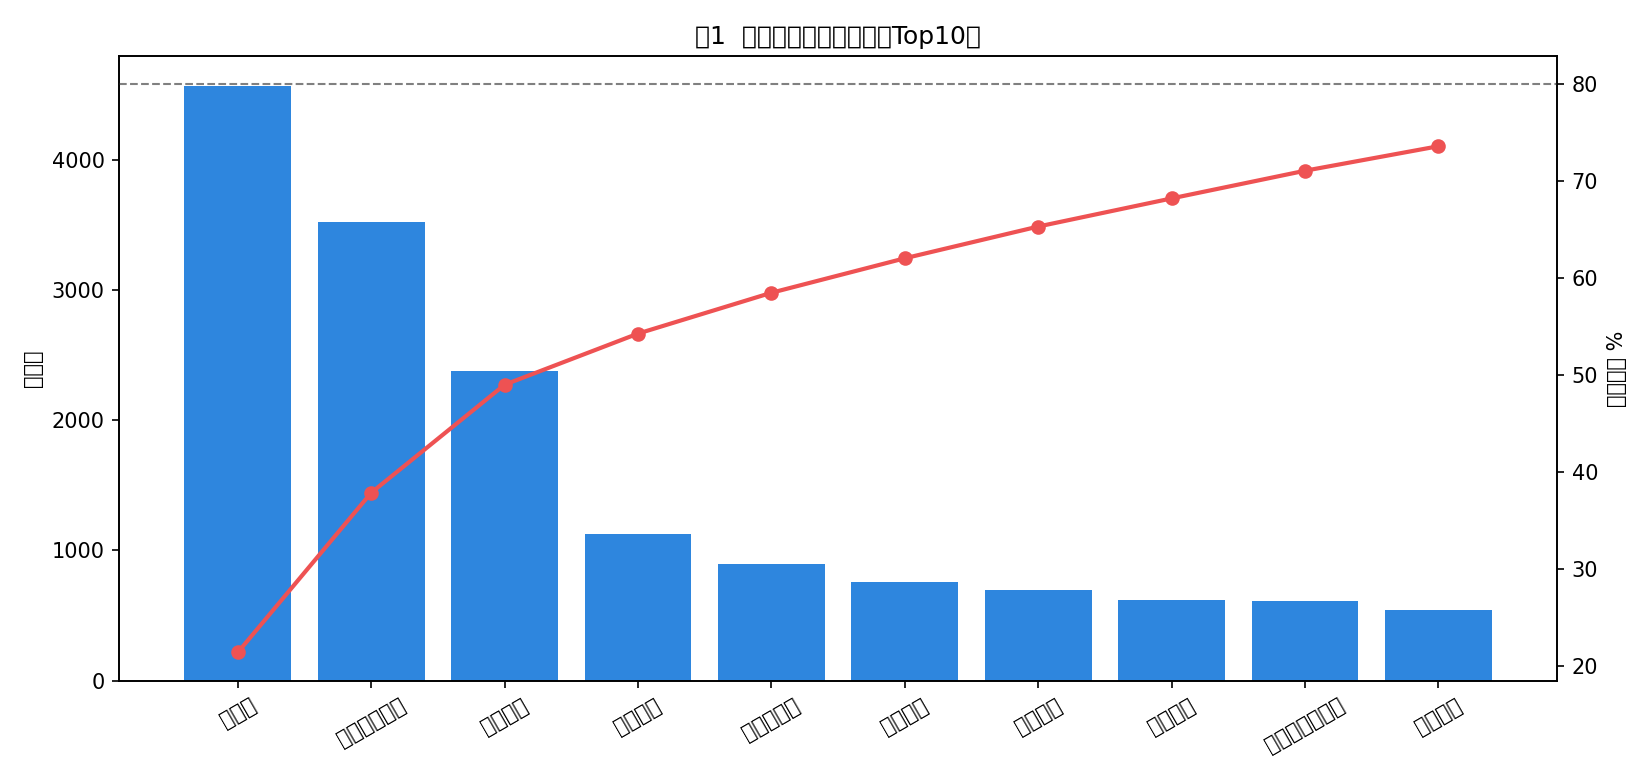
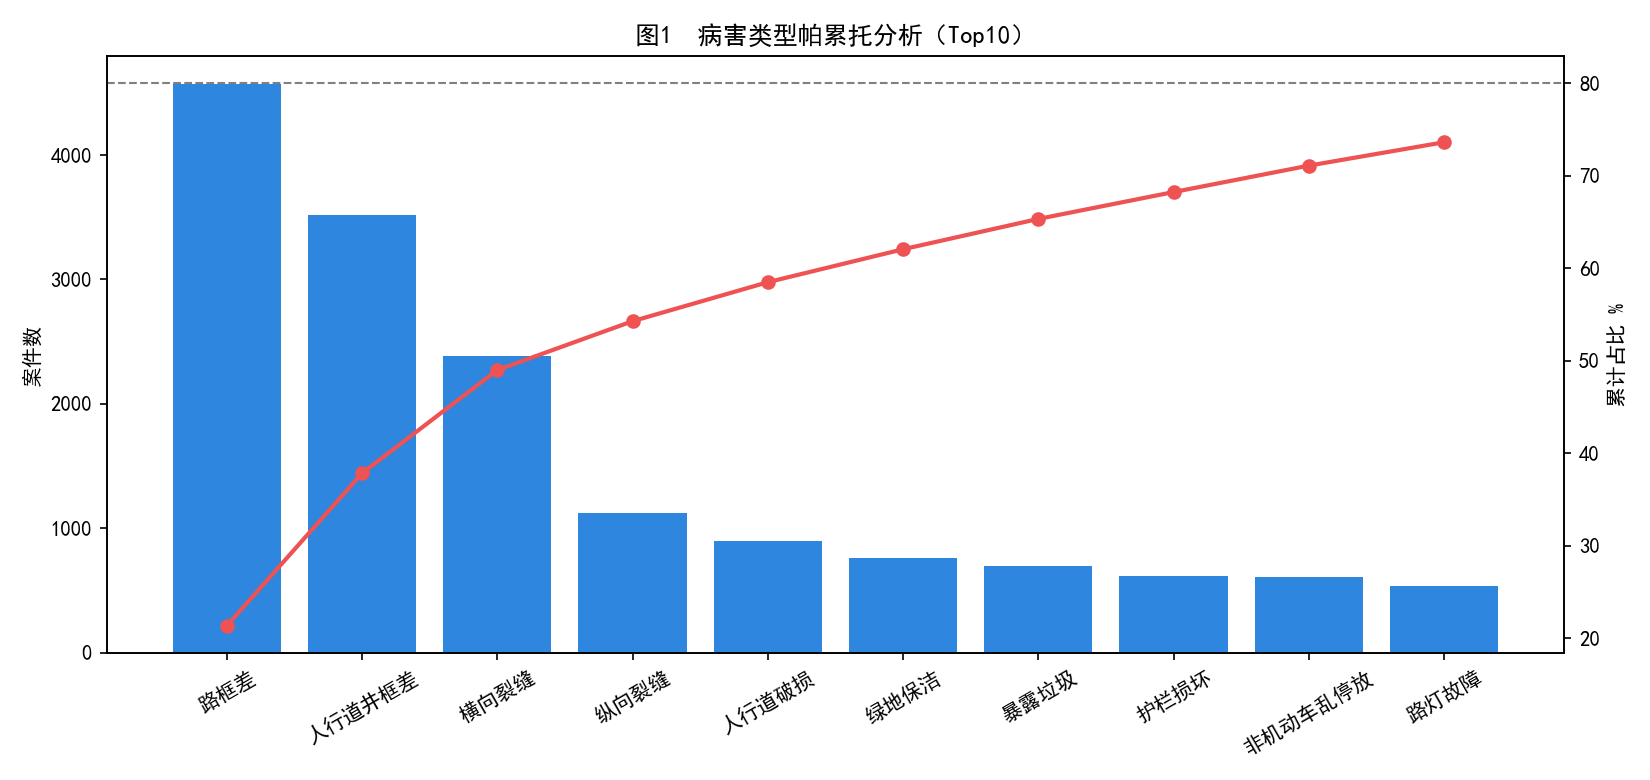
添加分析报告 + 修复中文字体 + 删除求职信息

diff --git a/code/analysis.py b/code/analysis.py
@@ -8,7 +8,11 @@
 import pandas as pd
 import numpy as np
 import matplotlib.pyplot as plt
+import matplotlib
 from pathlib import Path
+
+matplotlib.rcParams['font.sans-serif'] = ['SimHei', 'Microsoft YaHei', 'Arial Unicode MS']
+matplotlib.rcParams['axes.unicode_minus'] = False
 
 ROOT = Path(__file__).resolve().parent.parent
 FIG = ROOT / 'report' / 'figures'

diff --git a/report/分析报告.md b/report/分析报告.md
@@ -1,0 +1,142 @@
+# 道路巡查数据质量与病害分布分析报告
+
+> **汇报对象**：业务部门 / 管理层
+> **分析周期**：2026-08-03 ~ 2026-09-03
+> **数据量**：21,359 条案件明细
+> **分析工具**：Python + SQL + Power BI
+
+---
+
+## 一、分析背景与目标
+
+### 业务背景
+
+某市道路巡查管养平台通过作业车、两轮车、四轮专车、众源车四类渠道采集道路影像，经 AI 识别 + 人工审核后派单给养护单位处置。
+
+### 存在的问题
+
+1. 平台仅用「案件总量」评估病害严重程度，短里程道路的真实破损被掩盖
+2. 众源车渠道数据质量差、审核时滞长，产生大量无效工单
+3. 周五数据洪峰与低质量叠加，审核人力排产不合理
+
+### 分析目标
+
+回答四个核心问题：
+- 哪类病害最该优先治理？
+- 哪些道路真正最严重？
+- 四类渠道的数据质量差异多大？
+- 一周内的审核压力峰值在哪里？
+
+---
+
+## 二、数据质量核验
+
+对 21,359 条案件进行四维质检：
+
+| 质检维度 | 驳回原因 | 驳回量 | 占比 |
+|---|---|---|---|
+| 准确性 | AI误报 | 944 | 40.5% |
+| 时效性 | 超过时效 | 566 | 24.3% |
+| 完整性 | 模糊不清 | 540 | 23.2% |
+| 规范性 | 框选不规范 | 281 | 12.1% |
+
+**总体审核通过率 89.1%（19,028 / 21,359）**
+
+> 含义：每100条采集数据中，约11条因质量问题被驳回。通过率每下降1个百分点，约214条无效数据流入派单环节。
+
+---
+
+## 三、分析发现
+
+### 发现1：病害类型呈长尾分布，人行道是第一大问题域
+
+![病害帕累托分析](figures/图1.png)
+
+| 病害小类 | 案件数 | 占比 | 累计占比 |
+|---|---|---|---|
+| 路框差 | 4,567 | 21.4% | 21.4% |
+| 人行道井框差 | 3,519 | 16.5% | 37.9% |
+| 横向裂缝 | 2,381 | 11.1% | 49.0% |
+
+- 人行道大类合计 9,894 件，占总量 **46.3%**
+- Top3 病害累计占比 49.0%，呈长尾分布
+- 路框差 + 井框差合计 8,086 件（37.9%），多为框体沉陷、高差超标，直接关联行人安全
+
+**建议**：将路框差/井框差整治设为专项治理，按批量换框替代个案派单。
+
+---
+
+### 发现2：案件总量排行存在口径陷阱
+
+![道路案件密度排行](figures/图2.png)
+
+| 排序视角 | 第1名 | 说明 |
+|---|---|---|
+| 案件总量 | 龙岗大道 3,610件 | 平台默认口径 |
+| 案件密度(件/km) | **沙荷路 148.0件/km** | 本报告口径 |
+
+- 龙岗大道总里程 32.6km，总量高部分由里程规模贡献
+- 沙荷路密度比龙岗大道高 **34%**，真实病害强度被总量口径掩盖
+- 若按总量排序派养护队，资源会持续向长里程主干道倾斜，短里程次干道的实际破损被忽视
+
+**建议**：平台排行增加「案件密度(件/km)」切换口径，密度 ≥120 件/km 的道路纳入优先养护清单。
+
+---
+
+### 发现3：众源车渠道是双重风险
+
+![渠道质量与时效对比](figures/图3.png)
+
+| 渠道 | 案件量 | 通过率 | 平均时滞 | 主要驳回原因 |
+|---|---|---|---|---|
+| 作业车 | 9,505 | **93.1%** | 0天 | AI误报(42.8%) |
+| 四轮专车 | 3,283 | 89.2% | 1.5天 | AI误报(44.8%) |
+| 两轮车 | 6,451 | 88.0% | 0.5天 | 模糊不清(24.0%) |
+| 众源车 | 2,120 | **74.0%** | **8.0天** | 超过时效(39.0%) |
+
+- 众源车 54.2% 的案件审核超过 7 天
+- 影像拍到的坑槽、垃圾一周后可能已消失，此时再派单会产生**无效工单**
+- 众源车的价值在于低成本广覆盖（周五跑全域），不应取消，应压缩流转时长
+
+**建议**：众源数据执行 T+3 审核 SLA，超时自动作废，预估消灭 39% 时效驳回。
+
+---
+
+### 发现4：周五是审核压力峰值
+
+![分星期案件量与来源结构](figures/图4.png)
+
+| 时段 | 日均案件量 | 说明 |
+|---|---|---|
+| 周一至周四 | ~3,000件 | 结构稳定 |
+| **周五** | **~4,550件** | **+52%**，众源车跑全域 |
+| 周末 | ~2,450件 | 仅作业车+两轮车 |
+
+- 周五数据洪峰与最差渠道质量（众源 74% 通过率）叠加
+- 每周五是一周中审核压力最大、单位审核产出最低的时段
+
+**建议**：审核排产向周五倾斜，启用快审模式（重点校验时效与清晰度）。
+
+---
+
+## 四、业务建议汇总
+
+| # | 建议 | 预期收益 |
+|---|---|---|
+| 1 | 路框差/井框差专项批量治理 | 降低单件养护成本 |
+| 2 | 平台排行增加「案件密度(件/km)」口径 | 养护资源精准投放 |
+| 3 | 众源数据执行 T+3 审核 SLA，超时自动作废 | 消灭 39% 时效驳回 |
+| 4 | 周五审核人力倾斜 + 快审模式 | 消解案件积压 |
+| 5 | 两轮车采集增加防抖补光规范 | 渠道通过率 +3~5pct |
+
+---
+
+## 五、局限性
+
+1. 数据为脱敏模拟，结论方向可靠、数值仅供演示
+2. 缺少「派单→处置→复核」闭环数据，无法计算处置完成率
+3. 案件密度未按车道、车流量加权修正
+
+---
+
+*报告完*

diff --git a/README.md b/README.md
@@ -1,8 +1,5 @@
 # 道路巡查数据质量与病害分布分析
 
-> 个人练习项目 · 求职方向：业务数据分析师
-> 分析周期：2026-08-03 ~ 2026-09-03
-
 ## 项目背景
 
 某市道路巡查管养平台通过作业车、两轮车、四轮专车、众源车四类渠道采集道路影像，经 AI 识别 + 人工审核后派单给养护单位。本项目基于 21,359 条脱敏模拟案件数据，完成从数据质量核验到业务建议的完整分析闭环。
